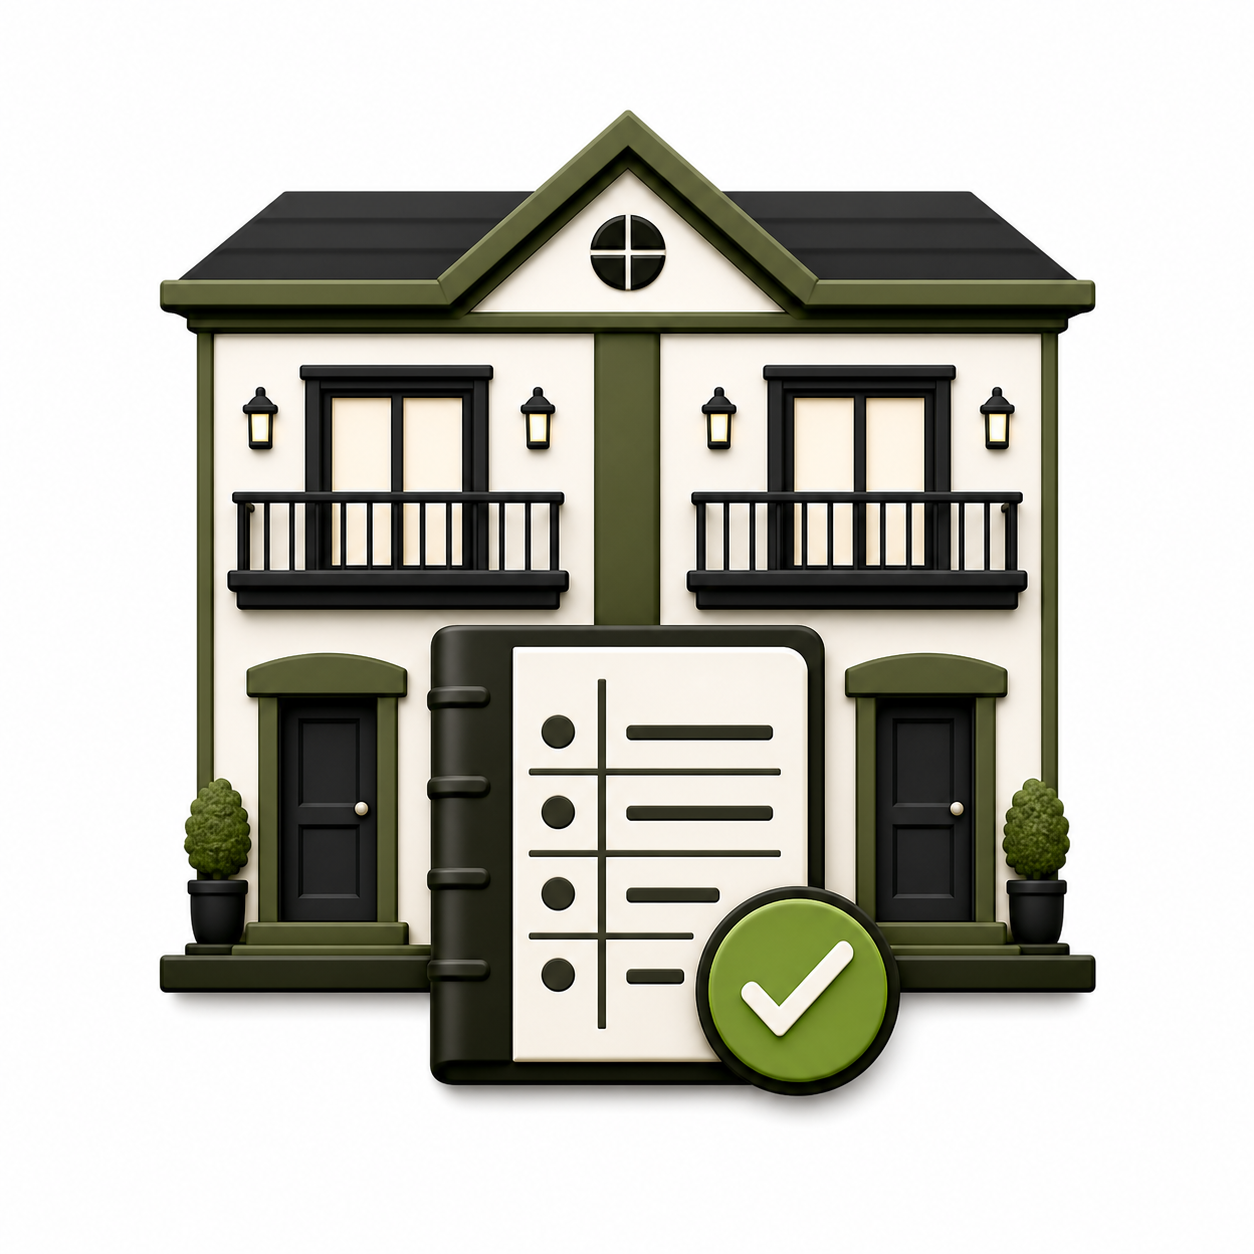
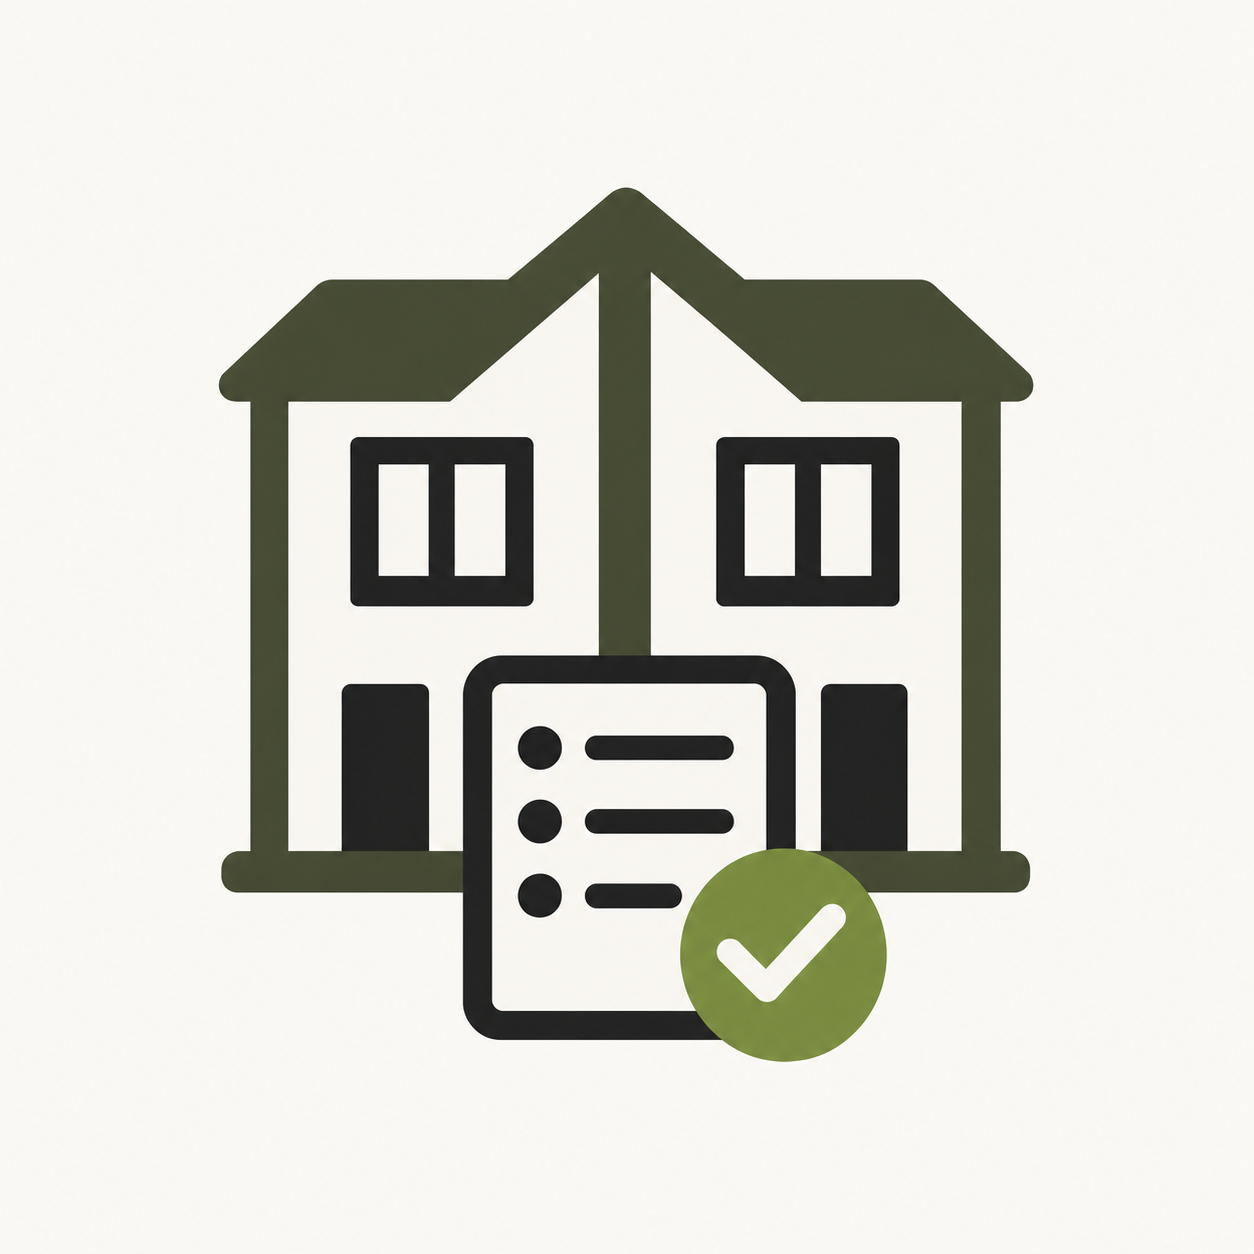
fix: perfect desktop alignment and asset controls

diff --git a/src/renderer/styles/app.css b/src/renderer/styles/app.css
@@ -2109,14 +2109,16 @@ textarea:focus-visible {
 
 .status-badge {
   display: inline-flex;
-  min-height: 24px;
+  height: 24px;
   align-items: center;
+  justify-content: center;
   padding: 0 var(--space-2);
   border-radius: var(--radius-sm);
   background: var(--color-surface-subtle);
   color: var(--color-ink);
   font-size: var(--text-xs);
   font-weight: 700;
+  line-height: 1;
   white-space: nowrap;
 }
 
@@ -2261,8 +2263,8 @@ textarea:focus-visible {
   gap: var(--space-2);
 }
 
-.payments-header > .page-actions {
-  align-items: flex-end;
+.payments-header > div.page-actions {
+  align-items: end;
 }
 
 .page-actions > .icon-button {
@@ -2273,6 +2275,26 @@ textarea:focus-visible {
 .page-actions > .primary-button,
 .page-actions > .secondary-button {
   min-height: var(--control-height);
+}
+
+.unit-setting-row > .unit-row-actions {
+  min-height: var(--control-height);
+  align-self: end;
+}
+
+.unit-setting-row > .unit-row-actions .icon-button {
+  width: var(--control-height);
+  height: var(--control-height);
+}
+
+.table-row-actions {
+  display: flex;
+  justify-content: flex-end;
+  gap: var(--space-2);
+}
+
+.danger-action {
+  color: var(--color-danger);
 }
 
 .payments-toolbar {

diff --git a/src/renderer/screens/FinancialPositionScreen.tsx b/src/renderer/screens/FinancialPositionScreen.tsx
@@ -1,4 +1,4 @@
-import { Landmark, PackageCheck, Pencil, Plus, Scale, X } from "lucide-react";
+import { Landmark, PackageCheck, Pencil, Plus, Scale, Trash2, X } from "lucide-react";
 import { useCallback, useEffect, useState, type FormEvent } from "react";
 
 import type { BusinessUnit } from "../../domain/types";
@@ -25,9 +25,10 @@ export function FinancialPositionScreen({units,taxProvisionPerUnit}:{units:Busin
   const [position,setPosition]=useState<FinancialPosition|null>(null);const [assets,setAssets]=useState<AssetRecord[]>([]);const [loans,setLoans]=useState<LoanRecord[]>([]);const [period,setPeriod]=useState<PeriodClose>({month:monthNow(),status:"open",reason:null});const [suppliers,setSuppliers]=useState<Supplier[]>([]);const [error,setError]=useState<string|null>(null);
   const load=useCallback(async()=>{setError(null);const [overview,supplierResult]=await Promise.all([window.stayBooks.invoke(IPC_CHANNELS.FINANCE_OVERVIEW,{month}),window.stayBooks.invoke(IPC_CHANNELS.SUPPLIERS_LIST,{})]);if(!overview.ok)return setError(overview.message);setPosition(overview.data.position);setAssets(overview.data.assets);setLoans(overview.data.loans);setPeriod(overview.data.period);if(supplierResult.ok)setSuppliers(supplierResult.data);},[month]);
   useEffect(()=>{void load();},[load]);
-  async function saveBalance(event:FormEvent<HTMLFormElement>){event.preventDefault();const form=new FormData(event.currentTarget);const result=await window.stayBooks.invoke(IPC_CHANNELS.BALANCE_SAVE,{month,category:String(form.get("category")) as IpcPayload<typeof IPC_CHANNELS.BALANCE_SAVE>["category"],amount:Number(form.get("amount")),unitId:String(form.get("unitId")||"")||null,notes:String(form.get("notes")||"")||null});if(!result.ok)return setError(result.message);setPosition(result.data);setPanel(null);}
+  async function saveBalance(event:FormEvent<HTMLFormElement>){event.preventDefault();const form=new FormData(event.currentTarget);const fundingMethod=String(form.get("fundingMethod")||"");const details=String(form.get("notes")||"");const notes=[fundingMethod,details].filter(Boolean).join(" · ")||null;const result=await window.stayBooks.invoke(IPC_CHANNELS.BALANCE_SAVE,{month,category:String(form.get("category")) as IpcPayload<typeof IPC_CHANNELS.BALANCE_SAVE>["category"],amount:Number(form.get("amount")),unitId:String(form.get("unitId")||"")||null,notes});if(!result.ok)return setError(result.message);setPosition(result.data);setPanel(null);}
   async function saveInventory(event:FormEvent<HTMLFormElement>){event.preventDefault();const form=new FormData(event.currentTarget);const result=await window.stayBooks.invoke(IPC_CHANNELS.INVENTORY_SAVE,{month,unitId:String(form.get("unitId")||"")||null,value:Number(form.get("value")),notes:String(form.get("notes")||"")||null});if(!result.ok)return setError(result.message);setPosition(result.data);setPanel(null);}
   async function saveAsset(input:AssetInput){const result=selectedAsset?await window.stayBooks.invoke(IPC_CHANNELS.ASSET_UPDATE,{id:selectedAsset.id,...input}):await window.stayBooks.invoke(IPC_CHANNELS.ASSET_CREATE,input);if(!result.ok){setError(result.message);throw new Error(result.message);}setSelectedAsset(null);setPanel(null);await load();}
+  async function archiveAsset(asset:AssetRecord){if(!window.confirm(`Remove ${asset.description} from the fixed asset register?`))return;const result=await window.stayBooks.invoke(IPC_CHANNELS.ASSET_ARCHIVE,{id:asset.id});if(!result.ok)return setError(result.message);await load();}
   async function saveLoan(input:LoanInput){const result=selectedLoan?await window.stayBooks.invoke(IPC_CHANNELS.LOAN_UPDATE,{id:selectedLoan.id,...input}):await window.stayBooks.invoke(IPC_CHANNELS.LOAN_CREATE,input);if(!result.ok){setError(result.message);throw new Error(result.message);}setSelectedLoan(null);setPanel(null);await load();}
   async function close(){const result=await window.stayBooks.invoke(IPC_CHANNELS.PERIOD_CLOSE,{month});if(!result.ok)return setError(result.message);setPeriod(result.data);}
   async function reopen(reason:string){const result=await window.stayBooks.invoke(IPC_CHANNELS.PERIOD_REOPEN,{month,reason});if(!result.ok)return setError(result.message);setPeriod(result.data);}
@@ -35,7 +36,7 @@ export function FinancialPositionScreen({units,taxProvisionPerUnit}:{units:Busin
   return <section className="financial-screen"><header className="payments-header"><div><h1>Financial Position</h1><p>Balances, obligations, loans, assets, equity, and month close.</p></div><div className="page-actions"><label className="month-control"><span>Month</span><input type="month" value={month} onChange={(event)=>setMonth(event.target.value)}/></label><button className="primary-button compact-button" onClick={()=>{setBalanceCategory("cash_on_hand");setPanel("balance");}}><Plus size={16}/>Add balance</button></div></header>
     <nav className="section-tabs" aria-label="Financial position views" data-tour="month-end">{(["position","assets","loans","month-end"] as const).map((item)=><button data-active={view===item} data-tour={item==="month-end"?"reopen-period":undefined} key={item} onClick={()=>setView(item)}>{item==="month-end"?"Month-end":item[0].toUpperCase()+item.slice(1)}</button>)}</nav>
     {error?<p className="form-alert">{error}</p>:null}
-    {view==="position"?<><div className="position-equation" data-tour="position-summary"><div><span>Total assets</span><strong>{formatUgx(position?.totalAssets??0)}</strong></div><Scale size={22}/><div><span>Liabilities + equity</span><strong>{formatUgx(position?.totalLiabilitiesAndEquity??0)}</strong></div><span className={`balance-state ${position?.balanced?"balanced":"unbalanced"}`}>{position?.balanced?"Balanced":`${formatUgx(Math.abs(position?.difference??0))} difference`}</span></div><div className="position-grid" data-tour="position-balances">{[["Cash and current accounts",position?.cashAndCurrentAccounts],["Long-term deposits",position?.longTermDeposits],["Receivables",position?.receivables],["Guest-supply inventory",position?.inventory],["Fixed assets",position?.fixedAssets],["Provider and other payables",position?.payables],["Loans",position?.loans],["Owner equity",position?.ownerEquity],["Monthly rental tax provision",calculateMonthlyRentalTaxProvision(activeUnits,ugx(taxProvisionPerUnit))]].map(([label,value])=><div key={String(label)}><span>{label}</span><strong>{formatUgx(Number(value??0))}</strong></div>)}</div><button className="secondary-button compact-button" onClick={()=>setPanel("inventory")}><PackageCheck size={16}/>Inventory value</button></>:view==="assets"?<><section className="investment-guide"><Landmark size={20}/><div><strong>Record property investment correctly</strong><span>Add land, buildings, or renovation work as an asset, then record how it was funded as Owner capital or a Loan.</span></div><button className="secondary-button compact-button" onClick={()=>{setBalanceCategory("owner_capital");setPanel("balance");}} type="button">Owner funding</button></section><div className="statement-panel"><header className="panel-toolbar"><h2>Fixed asset register</h2><button className="primary-button compact-button" onClick={()=>{setSelectedAsset(null);setPanel("asset");}}><Plus size={16}/>New asset</button></header><div className="table-scroll"><table className="statement-table"><thead><tr><th>Date</th><th>Description</th><th>Category</th><th>Scope</th><th>Amount</th><th><span className="visually-hidden">Actions</span></th></tr></thead><tbody>{assets.map((asset)=><tr key={asset.id}><td>{asset.purchaseDate}</td><td><strong>{asset.description}</strong></td><td>{asset.category}</td><td>{units.find(({id})=>id===asset.unitId)?.name??"Shared"}</td><td className="money-cell">{formatUgx(asset.purchaseAmount)}</td><td><button aria-label={`Edit ${asset.description}`} className="icon-button" onClick={()=>{setSelectedAsset(asset);setPanel("asset");}}><Pencil size={15}/></button></td></tr>)}</tbody></table></div></div></>:view==="loans"?<div className="statement-panel"><header className="panel-toolbar"><h2>Loan register</h2><button className="primary-button compact-button" onClick={()=>{setSelectedLoan(null);setPanel("loan");}}><Plus size={16}/>New loan</button></header><div className="table-scroll"><table className="statement-table"><thead><tr><th>Lender</th><th>Type</th><th>Repayment</th><th>Principal</th><th>Outstanding</th><th><span className="visually-hidden">Actions</span></th></tr></thead><tbody>{loans.map((loan)=><tr key={loan.id}><td><strong>{loan.lender}</strong><span>{loan.interestRateBasisPoints/100}% annual interest</span></td><td>{loan.kind.replace("_"," ")}</td><td>{loan.repaymentFrequency}{loan.installmentAmount?` · ${formatUgx(loan.installmentAmount)}`:""}{loan.termMonths?` · ${loan.termMonths} months`:""}</td><td className="money-cell">{formatUgx(loan.principal)}</td><td className="money-cell">{formatUgx(loan.outstandingBalance)}</td><td><button aria-label={`Edit loan from ${loan.lender}`} className="icon-button" onClick={()=>{setSelectedLoan(loan);setPanel("loan");}}><Pencil size={15}/></button></td></tr>)}</tbody></table></div></div>:<MonthEndQuestionnaire month={month} status={period.status} balanced={position?.balanced??false} onClose={()=>void close()} onReopen={(reason)=>void reopen(reason)}/>}
-    {panel?<aside className="expense-side-panel"><header><h2>{panel==="balance"?"Record balance":panel==="inventory"?"Inventory value":panel==="asset"?(selectedAsset?"Edit asset":"New asset"):(selectedLoan?"Edit loan":"New loan")}</h2><button className="icon-button" aria-label="Close panel" onClick={()=>setPanel(null)}><X size={17}/></button></header>{panel==="asset"?<AssetEditor asset={selectedAsset} units={units} suppliers={suppliers} onSave={saveAsset} onCancel={()=>setPanel(null)}/>:panel==="loan"?<LoanEditor loan={selectedLoan} onSave={saveLoan} onCancel={()=>setPanel(null)}/>:panel==="inventory"?<form className="expense-editor" onSubmit={saveInventory}><label className="field-group"><span>Unit or shared</span><select name="unitId"><option value="">Shared</option>{units.map((unit)=><option key={unit.id} value={unit.id}>{unit.name}</option>)}</select></label><label className="field-group"><span>Guest-supply value</span><input name="value" type="number" min="0" required/></label><label className="field-group"><span>Notes</span><textarea name="notes"/></label><button className="primary-button">Save inventory value</button></form>:<form className="expense-editor" onSubmit={saveBalance}><label className="field-group"><span>Balance type</span><select name="category" onChange={(event)=>setBalanceCategory(event.target.value as typeof balanceCategory)} value={balanceCategory}>{categories.map(([value,label])=><option key={value} value={value}>{label}</option>)}</select></label><label className="field-group"><span>Unit when applicable</span><select name="unitId"><option value="">Consolidated/shared</option>{units.map((unit)=><option key={unit.id} value={unit.id}>{unit.name}</option>)}</select></label><label className="field-group"><span>Amount</span><input name="amount" type="number" min="0" required/></label><label className="field-group"><span>Notes</span><textarea name="notes"/></label><button className="primary-button">Save balance</button></form>}</aside>:null}
+    {view==="position"?<><div className="position-equation" data-tour="position-summary"><div><span>Total assets</span><strong>{formatUgx(position?.totalAssets??0)}</strong></div><Scale size={22}/><div><span>Liabilities + equity</span><strong>{formatUgx(position?.totalLiabilitiesAndEquity??0)}</strong></div><span className={`balance-state ${position?.balanced?"balanced":"unbalanced"}`}>{position?.balanced?"Balanced":`${formatUgx(Math.abs(position?.difference??0))} difference`}</span></div><div className="position-grid" data-tour="position-balances">{[["Cash and current accounts",position?.cashAndCurrentAccounts],["Long-term deposits",position?.longTermDeposits],["Receivables",position?.receivables],["Guest-supply inventory",position?.inventory],["Fixed assets",position?.fixedAssets],["Provider and other payables",position?.payables],["Loans",position?.loans],["Owner equity",position?.ownerEquity],["Monthly rental tax provision",calculateMonthlyRentalTaxProvision(activeUnits,ugx(taxProvisionPerUnit))]].map(([label,value])=><div key={String(label)}><span>{label}</span><strong>{formatUgx(Number(value??0))}</strong></div>)}</div><button className="secondary-button compact-button" onClick={()=>setPanel("inventory")}><PackageCheck size={16}/>Inventory value</button></>:view==="assets"?<><section className="investment-guide"><Landmark size={20}/><div><strong>Record property investment correctly</strong><span>Add land, buildings, or renovation work as an asset, then record how it was funded as Owner capital or a Loan.</span></div><button className="secondary-button compact-button" onClick={()=>{setBalanceCategory("owner_capital");setPanel("balance");}} type="button">Owner funding</button></section><div className="statement-panel"><header className="panel-toolbar"><h2>Fixed asset register</h2><button className="primary-button compact-button" onClick={()=>{setSelectedAsset(null);setPanel("asset");}}><Plus size={16}/>New asset</button></header><div className="table-scroll"><table className="statement-table"><thead><tr><th>Date</th><th>Description</th><th>Category</th><th>Scope</th><th>Amount</th><th><span className="visually-hidden">Actions</span></th></tr></thead><tbody>{assets.map((asset)=><tr key={asset.id}><td>{asset.purchaseDate}</td><td><strong>{asset.description}</strong></td><td>{asset.category}</td><td>{units.find(({id})=>id===asset.unitId)?.name??"Shared"}</td><td className="money-cell">{formatUgx(asset.purchaseAmount)}</td><td><div className="table-row-actions"><button aria-label={`Edit ${asset.description}`} className="icon-button" onClick={()=>{setSelectedAsset(asset);setPanel("asset");}}><Pencil size={15}/></button><button aria-label={`Delete ${asset.description}`} className="icon-button danger-action" onClick={()=>void archiveAsset(asset)}><Trash2 size={15}/></button></div></td></tr>)}</tbody></table></div></div></>:view==="loans"?<div className="statement-panel"><header className="panel-toolbar"><h2>Loan register</h2><button className="primary-button compact-button" onClick={()=>{setSelectedLoan(null);setPanel("loan");}}><Plus size={16}/>New loan</button></header><div className="table-scroll"><table className="statement-table"><thead><tr><th>Lender</th><th>Type</th><th>Repayment</th><th>Principal</th><th>Outstanding</th><th><span className="visually-hidden">Actions</span></th></tr></thead><tbody>{loans.map((loan)=><tr key={loan.id}><td><strong>{loan.lender}</strong><span>{loan.interestRateBasisPoints/100}% annual interest</span></td><td>{loan.kind.replace("_"," ")}</td><td>{loan.repaymentFrequency}{loan.installmentAmount?` · ${formatUgx(loan.installmentAmount)}`:""}{loan.termMonths?` · ${loan.termMonths} months`:""}</td><td className="money-cell">{formatUgx(loan.principal)}</td><td className="money-cell">{formatUgx(loan.outstandingBalance)}</td><td><button aria-label={`Edit loan from ${loan.lender}`} className="icon-button" onClick={()=>{setSelectedLoan(loan);setPanel("loan");}}><Pencil size={15}/></button></td></tr>)}</tbody></table></div></div>:<MonthEndQuestionnaire month={month} status={period.status} balanced={position?.balanced??false} onClose={()=>void close()} onReopen={(reason)=>void reopen(reason)}/>}
+    {panel?<aside className="expense-side-panel"><header><h2>{panel==="balance"?(balanceCategory==="owner_capital"?"Record owner funding":"Record balance"):panel==="inventory"?"Inventory value":panel==="asset"?(selectedAsset?"Edit asset":"New asset"):(selectedLoan?"Edit loan":"New loan")}</h2><button className="icon-button" aria-label="Close panel" onClick={()=>setPanel(null)}><X size={17}/></button></header>{panel==="asset"?<AssetEditor asset={selectedAsset} units={units} suppliers={suppliers} onSave={saveAsset} onCancel={()=>setPanel(null)}/>:panel==="loan"?<LoanEditor loan={selectedLoan} onSave={saveLoan} onCancel={()=>setPanel(null)}/>:panel==="inventory"?<form className="expense-editor" onSubmit={saveInventory}><label className="field-group"><span>Unit or shared</span><select name="unitId"><option value="">Shared</option>{units.map((unit)=><option key={unit.id} value={unit.id}>{unit.name}</option>)}</select></label><label className="field-group"><span>Guest-supply value</span><input name="value" type="number" min="0" required/></label><label className="field-group"><span>Notes</span><textarea name="notes"/></label><button className="primary-button">Save inventory value</button></form>:<form className="expense-editor" onSubmit={saveBalance}><label className="field-group"><span>Balance type</span><select name="category" onChange={(event)=>setBalanceCategory(event.target.value as typeof balanceCategory)} value={balanceCategory}>{categories.map(([value,label])=><option key={value} value={value}>{label}</option>)}</select></label><div className="form-grid-two"><label className="field-group"><span>Effective month</span><input type="month" value={month} readOnly/></label><label className="field-group"><span>Unit or shared</span><select name="unitId"><option value="">Consolidated/shared</option>{units.map((unit)=><option key={unit.id} value={unit.id}>{unit.name}</option>)}</select></label></div><label className="field-group"><span>{balanceCategory==="owner_capital"?"Owner contribution amount":"Amount"}</span><input name="amount" type="number" min="0" required/></label>{balanceCategory==="owner_capital"?<label className="field-group"><span>Funding method</span><select name="fundingMethod"><option>Cash contribution</option><option>Bank transfer</option><option>Asset paid personally by owner</option><option>Other owner contribution</option></select></label>:null}<label className="field-group"><span>Reference and details</span><textarea name="notes" placeholder={balanceCategory==="owner_capital"?"Describe the asset or contribution and any reference.":undefined}/></label><button className="primary-button">Save {balanceCategory==="owner_capital"?"owner funding":"balance"}</button></form>}</aside>:null}
   </section>;
 }

diff --git a/src/shared/ipc.ts b/src/shared/ipc.ts
@@ -55,7 +55,7 @@ export const IPC_CHANNELS = {
   SUPPLIERS_LIST: "suppliers:list", SUPPLIER_CREATE: "suppliers:create", SUPPLIER_PAYMENT: "suppliers:payment",
   RECURRING_EXPENSES_LIST: "recurring-expenses:list", RECURRING_EXPENSE_CREATE: "recurring-expenses:create",
   FINANCE_OVERVIEW: "finance:overview", BALANCE_SAVE: "finance:balance-save", INVENTORY_SAVE: "finance:inventory-save",
-  ASSET_CREATE: "finance:asset-create", ASSET_UPDATE: "finance:asset-update",
+  ASSET_CREATE: "finance:asset-create", ASSET_UPDATE: "finance:asset-update", ASSET_ARCHIVE: "finance:asset-archive",
   LOAN_CREATE: "finance:loan-create", LOAN_UPDATE: "finance:loan-update",
   PERIOD_CLOSE: "finance:period-close", PERIOD_REOPEN: "finance:period-reopen",
   REPORT_MONTHLY: "reports:monthly",
@@ -561,6 +561,7 @@ const financeRequests=[
  z.object({channel:z.literal(IPC_CHANNELS.INVENTORY_SAVE),payload:z.object({month:monthSchema,unitId:idSchema.nullable().optional(),value:wholeUgxSchema.nonnegative(),notes:z.string().max(2000).nullable().optional()}).strict()}).strict(),
  z.object({channel:z.literal(IPC_CHANNELS.ASSET_CREATE),payload:assetInputSchema}).strict(),
  z.object({channel:z.literal(IPC_CHANNELS.ASSET_UPDATE),payload:assetInputSchema.extend({id:idSchema}).strict()}).strict(),
+ z.object({channel:z.literal(IPC_CHANNELS.ASSET_ARCHIVE),payload:z.object({id:idSchema}).strict()}).strict(),
  z.object({channel:z.literal(IPC_CHANNELS.LOAN_CREATE),payload:loanInputSchema}).strict(),
  z.object({channel:z.literal(IPC_CHANNELS.LOAN_UPDATE),payload:loanInputSchema.extend({id:idSchema}).strict()}).strict(),
  z.object({channel:z.literal(IPC_CHANNELS.PERIOD_CLOSE),payload:z.object({month:monthSchema}).strict()}).strict(),
@@ -896,7 +897,7 @@ const responseSchemas = {
   [IPC_CHANNELS.RECURRING_EXPENSES_LIST]: responseSchema(z.array(recurringExpenseSchema)), [IPC_CHANNELS.RECURRING_EXPENSE_CREATE]: responseSchema(recurringExpenseSchema),
   [IPC_CHANNELS.FINANCE_OVERVIEW]: responseSchema(z.object({position:positionSchema,assets:z.array(assetSchema),loans:z.array(loanSchema),period:periodSchema}).strict()),
   [IPC_CHANNELS.BALANCE_SAVE]:responseSchema(positionSchema),[IPC_CHANNELS.INVENTORY_SAVE]:responseSchema(positionSchema),
-  [IPC_CHANNELS.ASSET_CREATE]:responseSchema(assetSchema),[IPC_CHANNELS.ASSET_UPDATE]:responseSchema(assetSchema),
+  [IPC_CHANNELS.ASSET_CREATE]:responseSchema(assetSchema),[IPC_CHANNELS.ASSET_UPDATE]:responseSchema(assetSchema),[IPC_CHANNELS.ASSET_ARCHIVE]:responseSchema(z.object({archived:z.literal(true)}).strict()),
   [IPC_CHANNELS.LOAN_CREATE]:responseSchema(loanSchema),[IPC_CHANNELS.LOAN_UPDATE]:responseSchema(loanSchema),
   [IPC_CHANNELS.PERIOD_CLOSE]:responseSchema(periodSchema),[IPC_CHANNELS.PERIOD_REOPEN]:responseSchema(periodSchema),
   [IPC_CHANNELS.REPORT_MONTHLY]:responseSchema(reportSchema),
@@ -977,7 +978,7 @@ interface IpcDataByChannel {
   [IPC_CHANNELS.RECURRING_EXPENSES_LIST]: RecurringExpenseTemplate[]; [IPC_CHANNELS.RECURRING_EXPENSE_CREATE]: RecurringExpenseTemplate;
   [IPC_CHANNELS.FINANCE_OVERVIEW]: {position:FinancialPosition;assets:AssetRecord[];loans:LoanRecord[];period:PeriodClose};
   [IPC_CHANNELS.BALANCE_SAVE]:FinancialPosition;[IPC_CHANNELS.INVENTORY_SAVE]:FinancialPosition;
-  [IPC_CHANNELS.ASSET_CREATE]:AssetRecord;[IPC_CHANNELS.ASSET_UPDATE]:AssetRecord;
+  [IPC_CHANNELS.ASSET_CREATE]:AssetRecord;[IPC_CHANNELS.ASSET_UPDATE]:AssetRecord;[IPC_CHANNELS.ASSET_ARCHIVE]:{archived:true};
   [IPC_CHANNELS.LOAN_CREATE]:LoanRecord;[IPC_CHANNELS.LOAN_UPDATE]:LoanRecord;
   [IPC_CHANNELS.PERIOD_CLOSE]:PeriodClose;[IPC_CHANNELS.PERIOD_REOPEN]:PeriodClose;
   [IPC_CHANNELS.REPORT_MONTHLY]:FinancialReport;

diff --git a/src/main/ipc/register-handlers.ts b/src/main/ipc/register-handlers.ts
@@ -130,7 +130,7 @@ const defaultHandlers: IpcHandlers = {
   [IPC_CHANNELS.SUPPLIERS_LIST]:()=>[], [IPC_CHANNELS.SUPPLIER_CREATE]:()=>{throw new Error("Business session is unavailable");}, [IPC_CHANNELS.SUPPLIER_PAYMENT]:()=>{throw new Error("Business session is unavailable");},
   [IPC_CHANNELS.RECURRING_EXPENSES_LIST]:()=>[], [IPC_CHANNELS.RECURRING_EXPENSE_CREATE]:()=>{throw new Error("Business session is unavailable");},
   [IPC_CHANNELS.FINANCE_OVERVIEW]:()=>{throw new Error("Business session is unavailable");},[IPC_CHANNELS.BALANCE_SAVE]:()=>{throw new Error("Business session is unavailable");},[IPC_CHANNELS.INVENTORY_SAVE]:()=>{throw new Error("Business session is unavailable");},
-  [IPC_CHANNELS.ASSET_CREATE]:()=>{throw new Error("Business session is unavailable");},[IPC_CHANNELS.ASSET_UPDATE]:()=>{throw new Error("Business session is unavailable");},
+  [IPC_CHANNELS.ASSET_CREATE]:()=>{throw new Error("Business session is unavailable");},[IPC_CHANNELS.ASSET_UPDATE]:()=>{throw new Error("Business session is unavailable");},[IPC_CHANNELS.ASSET_ARCHIVE]:()=>{throw new Error("Business session is unavailable");},
   [IPC_CHANNELS.LOAN_CREATE]:()=>{throw new Error("Business session is unavailable");},[IPC_CHANNELS.LOAN_UPDATE]:()=>{throw new Error("Business session is unavailable");},[IPC_CHANNELS.PERIOD_CLOSE]:()=>{throw new Error("Business session is unavailable");},[IPC_CHANNELS.PERIOD_REOPEN]:()=>{throw new Error("Business session is unavailable");},
   [IPC_CHANNELS.REPORT_MONTHLY]:()=>{throw new Error("Business session is unavailable");},
   [IPC_CHANNELS.TODAY_OVERVIEW]:()=>{throw new Error("Business session is unavailable");},
@@ -175,7 +175,7 @@ const registeredChannels = [
   IPC_CHANNELS.RECEIPT_PRINT,
   IPC_CHANNELS.COMPENSATION_MONTHLY,
   IPC_CHANNELS.EXPENSES_LIST,IPC_CHANNELS.EXPENSE_CREATE,IPC_CHANNELS.SUPPLIERS_LIST,IPC_CHANNELS.SUPPLIER_CREATE,IPC_CHANNELS.SUPPLIER_PAYMENT,IPC_CHANNELS.RECURRING_EXPENSES_LIST,IPC_CHANNELS.RECURRING_EXPENSE_CREATE,
-  IPC_CHANNELS.FINANCE_OVERVIEW,IPC_CHANNELS.BALANCE_SAVE,IPC_CHANNELS.INVENTORY_SAVE,IPC_CHANNELS.ASSET_CREATE,IPC_CHANNELS.ASSET_UPDATE,IPC_CHANNELS.LOAN_CREATE,IPC_CHANNELS.LOAN_UPDATE,IPC_CHANNELS.PERIOD_CLOSE,IPC_CHANNELS.PERIOD_REOPEN,
+  IPC_CHANNELS.FINANCE_OVERVIEW,IPC_CHANNELS.BALANCE_SAVE,IPC_CHANNELS.INVENTORY_SAVE,IPC_CHANNELS.ASSET_CREATE,IPC_CHANNELS.ASSET_UPDATE,IPC_CHANNELS.ASSET_ARCHIVE,IPC_CHANNELS.LOAN_CREATE,IPC_CHANNELS.LOAN_UPDATE,IPC_CHANNELS.PERIOD_CLOSE,IPC_CHANNELS.PERIOD_REOPEN,
   IPC_CHANNELS.REPORT_MONTHLY,
   IPC_CHANNELS.TODAY_OVERVIEW,
   IPC_CHANNELS.BACKUP_CREATE,IPC_CHANNELS.BACKUP_RESTORE,IPC_CHANNELS.EXPORT_EXCEL,
@@ -247,7 +247,7 @@ export function createBusinessIpcHandlers(
     [IPC_CHANNELS.SUPPLIERS_LIST]:()=>session.listSuppliers(), [IPC_CHANNELS.SUPPLIER_CREATE]:(payload)=>session.createSupplier(payload), [IPC_CHANNELS.SUPPLIER_PAYMENT]:(payload)=>session.recordSupplierPayment(payload),
     [IPC_CHANNELS.RECURRING_EXPENSES_LIST]:({month})=>session.listRecurringExpenses(month), [IPC_CHANNELS.RECURRING_EXPENSE_CREATE]:(payload)=>session.createRecurringExpense(payload),
     [IPC_CHANNELS.FINANCE_OVERVIEW]:({month})=>session.getFinanceOverview(month),[IPC_CHANNELS.BALANCE_SAVE]:(payload)=>session.recordBalance(payload),[IPC_CHANNELS.INVENTORY_SAVE]:(payload)=>session.recordInventory(payload),
-    [IPC_CHANNELS.ASSET_CREATE]:(payload)=>session.createAsset(payload),[IPC_CHANNELS.ASSET_UPDATE]:({id,...payload})=>session.updateAsset(id,payload),
+    [IPC_CHANNELS.ASSET_CREATE]:(payload)=>session.createAsset(payload),[IPC_CHANNELS.ASSET_UPDATE]:({id,...payload})=>session.updateAsset(id,payload),[IPC_CHANNELS.ASSET_ARCHIVE]:({id})=>{session.archiveAsset(id);return{archived:true as const};},
     [IPC_CHANNELS.LOAN_CREATE]:(payload)=>session.createLoan(payload),[IPC_CHANNELS.LOAN_UPDATE]:({id,...payload})=>session.updateLoan(id,payload),[IPC_CHANNELS.PERIOD_CLOSE]:({month})=>session.closeMonth(month),[IPC_CHANNELS.PERIOD_REOPEN]:({month,reason})=>session.reopenMonth(month,reason),
     [IPC_CHANNELS.REPORT_MONTHLY]:({month})=>session.getMonthlyFinancialReport(month),
     [IPC_CHANNELS.TODAY_OVERVIEW]:({date})=>session.getTodayOverview(date),

diff --git a/src/main/business-session.ts b/src/main/business-session.ts
@@ -160,6 +160,7 @@ export interface BusinessSession {
   recordInventory(input:Parameters<FinanceRepository["recordInventory"]>[0]):FinancialPosition;
   createAsset(input:Parameters<FinanceRepository["createAsset"]>[0]):AssetRecord;
   updateAsset(id:string,input:Parameters<FinanceRepository["updateAsset"]>[1]):AssetRecord;
+  archiveAsset(id:string):void;
   createLoan(input:Parameters<FinanceRepository["createLoan"]>[0]):LoanRecord;
   updateLoan(id:string,input:Parameters<FinanceRepository["updateLoan"]>[1]):LoanRecord;
   closeMonth(month:string):PeriodClose;
@@ -529,6 +530,7 @@ export function createBusinessSession(options: BusinessSessionOptions): Business
     recordInventory(input) { requireCapability("admin.all"); return finance().recordInventory(input); },
     createAsset(input) { requireCapability("admin.all"); return finance().createAsset(input); },
     updateAsset(id,input) { requireCapability("admin.all"); return finance().updateAsset(id,input); },
+    archiveAsset(id) { requireCapability("admin.all"); return finance().archiveAsset(id); },
     createLoan(input) { requireCapability("admin.all"); return finance().createLoan(input); },
     updateLoan(id,input) { requireCapability("admin.all"); return finance().updateLoan(id,input); },
     closeMonth(month) { requireCapability("admin.all"); return finance().closeMonth(month); },

diff --git a/src/renderer/components/KpiStrip.tsx b/src/renderer/components/KpiStrip.tsx
@@ -1,2 +1,2 @@
-const formatUgx=(value:number)=>`UGX ${new Intl.NumberFormat("en-UG",{notation:value>=1_000_000?"compact":"standard",maximumFractionDigits:1}).format(value)}`;
+const formatUgx=(value:number)=>{const full=new Intl.NumberFormat("en-UG").format(value);return `UGX ${full.length>16?new Intl.NumberFormat("en-UG",{notation:"compact",maximumFractionDigits:1}).format(value):full}`};
 export function KpiStrip({occupancy,collected,outstanding,netPosition}:{occupancy:number;collected:number;outstanding:number;netPosition:number}){return <section className="kpi-strip" aria-label="Current month summary"><div><span>Occupancy</span><strong>{occupancy}%</strong></div><div><span>Collected</span><strong>{formatUgx(collected)}</strong></div><div><span>Outstanding</span><strong>{formatUgx(outstanding)}</strong></div><div><span>Net position</span><strong className={netPosition<0?"negative":undefined}>{formatUgx(netPosition)}</strong></div></section>}

diff --git a/tests/main/finance-repository.test.ts b/tests/main/finance-repository.test.ts
@@ -74,6 +74,8 @@ describe("financial position and month close", () => {
       purchaseDate: "2026-07-02",
       purchaseAmount: 750_000,
     })).toMatchObject({ description: "Guest room bed", purchaseAmount: 750_000 });
+    finance.archiveAsset(asset.id);
+    expect(finance.listAssets()).toEqual([]);
     expect(finance.updateLoan(loan.id, {
       lender: "Aurevia Enterprise",
       kind: "non_bank",

diff --git a/tests/renderer/today.test.tsx b/tests/renderer/today.test.tsx
@@ -1,3 +1,3 @@
 // @vitest-environment jsdom
 import {cleanup,render,screen,waitFor} from "@testing-library/react";import userEvent from "@testing-library/user-event";import{afterEach,describe,expect,it,vi}from"vitest";import{TodayScreen}from"../../src/renderer/screens/TodayScreen";
-afterEach(cleanup);describe("daily command center",()=>{it("reconciles visible totals and routes every warning",async()=>{const invoke=vi.fn().mockResolvedValue({ok:true,data:{date:"2026-07-14",month:"2026-07",occupancyPercent:72,collected:8_400_000,outstanding:900_000,netPosition:1_700_000,expenses:2_400_000,staffDue:3_100_000,taxProvision:1_200_000,performance:[{month:"2026-02",collected:2_000_000,expenses:1_000_000,occupancyPercent:30},{month:"2026-03",collected:3_000_000,expenses:1_200_000,occupancyPercent:40},{month:"2026-04",collected:4_000_000,expenses:1_400_000,occupancyPercent:50},{month:"2026-05",collected:5_000_000,expenses:1_600_000,occupancyPercent:60},{month:"2026-06",collected:6_000_000,expenses:1_800_000,occupancyPercent:70},{month:"2026-07",collected:8_400_000,expenses:2_400_000,occupancyPercent:72}],agenda:[{id:"b1",type:"arrival",customerName:"Sarah N.",unitName:"Unit 1",time:"14:00",balance:0},{id:"b2",type:"departure",customerName:"David K.",unitName:"Unit 2",time:"11:00",balance:300_000}],units:[{id:"u1",name:"Unit 1",status:"arriving",guestName:"Sarah N."},{id:"u2",name:"Unit 2",status:"checkoutDue",guestName:"David K."}],warnings:[{id:"w1",label:"Balance due · David K.",detail:"Unit 2 · UGX 300,000",target:"payments"},{id:"w2",label:"Staff allocation unpaid",detail:"UGX 3,100,000",target:"staff"}]}});Object.defineProperty(window,"stayBooks",{configurable:true,value:{invoke}});const navigate=vi.fn();render(<TodayScreen date="2026-07-14" onNavigate={navigate}/>);await waitFor(()=>expect(screen.getAllByText("72%").length).toBeGreaterThan(0));for(const value of ["UGX 8.4M","UGX 900,000","UGX 1.7M","UGX 3,100,000","UGX 1,200,000","UGX 2,400,000"])expect(screen.getAllByText(value).length).toBeGreaterThan(0);expect(screen.getByRole("img",{name:/Collections, expenses, and occupancy/})).toBeTruthy();await userEvent.click(screen.getByRole("button",{name:/Balance due · David K/}));expect(navigate).toHaveBeenCalledWith("payments");});});
+afterEach(cleanup);describe("daily command center",()=>{it("reconciles visible totals and routes every warning",async()=>{const invoke=vi.fn().mockResolvedValue({ok:true,data:{date:"2026-07-14",month:"2026-07",occupancyPercent:72,collected:8_400_000,outstanding:900_000,netPosition:1_700_000,expenses:2_400_000,staffDue:3_100_000,taxProvision:1_200_000,performance:[{month:"2026-02",collected:2_000_000,expenses:1_000_000,occupancyPercent:30},{month:"2026-03",collected:3_000_000,expenses:1_200_000,occupancyPercent:40},{month:"2026-04",collected:4_000_000,expenses:1_400_000,occupancyPercent:50},{month:"2026-05",collected:5_000_000,expenses:1_600_000,occupancyPercent:60},{month:"2026-06",collected:6_000_000,expenses:1_800_000,occupancyPercent:70},{month:"2026-07",collected:8_400_000,expenses:2_400_000,occupancyPercent:72}],agenda:[{id:"b1",type:"arrival",customerName:"Sarah N.",unitName:"Unit 1",time:"14:00",balance:0},{id:"b2",type:"departure",customerName:"David K.",unitName:"Unit 2",time:"11:00",balance:300_000}],units:[{id:"u1",name:"Unit 1",status:"arriving",guestName:"Sarah N."},{id:"u2",name:"Unit 2",status:"checkoutDue",guestName:"David K."}],warnings:[{id:"w1",label:"Balance due · David K.",detail:"Unit 2 · UGX 300,000",target:"payments"},{id:"w2",label:"Staff allocation unpaid",detail:"UGX 3,100,000",target:"staff"}]}});Object.defineProperty(window,"stayBooks",{configurable:true,value:{invoke}});const navigate=vi.fn();render(<TodayScreen date="2026-07-14" onNavigate={navigate}/>);await waitFor(()=>expect(screen.getAllByText("72%").length).toBeGreaterThan(0));for(const value of ["UGX 8,400,000","UGX 900,000","UGX 1,700,000","UGX 3,100,000","UGX 1,200,000","UGX 2,400,000"])expect(screen.getAllByText(value).length).toBeGreaterThan(0);expect(screen.getByRole("img",{name:/Collections, expenses, and occupancy/})).toBeTruthy();await userEvent.click(screen.getByRole("button",{name:/Balance due · David K/}));expect(navigate).toHaveBeenCalledWith("payments");});});

diff --git a/src/main/db/repositories/finance-repository.ts b/src/main/db/repositories/finance-repository.ts
@@ -179,6 +179,7 @@ export function createFinanceRepository(database: Database.Database, businessId:
     recordInventory(input:{month:string;unitId?:string|null;value:number;notes?:string|null}) { requireMonth(input.month); assertOpen(input.month); requireOwned("units",input.unitId); const value=wholeUgx(input.value); const row=database.prepare<[string,string,string|null],{id:string}>("SELECT id FROM inventory_snapshots WHERE business_id=? AND month=? AND unit_id IS ?").get(businessId,input.month,input.unitId??null); if(row)database.prepare("UPDATE inventory_snapshots SET value=?,notes=? WHERE id=?").run(value,input.notes?.trim()||null,row.id);else database.prepare("INSERT INTO inventory_snapshots (business_id,month,unit_id,value,notes) VALUES (?,?,?,?,?)").run(businessId,input.month,input.unitId??null,value,input.notes?.trim()||null); return position(input.month); },
     createAsset(input:AssetInput):AssetRecord { if(!assetCategories.has(input.category))throw new Error("Choose a valid asset category.");if(!input.description.trim())throw new Error("Asset description is required.");if(!calendarDate(input.purchaseDate))throw new Error("Choose a valid purchase date.");assertOpen(input.purchaseDate.slice(0,7));requireOwned("units",input.unitId);requireOwned("suppliers",input.supplierId);const amount=wholeUgx(input.purchaseAmount);if(input.usefulLifeMonths!=null&&(!Number.isSafeInteger(input.usefulLifeMonths)||input.usefulLifeMonths<1))throw new Error("Useful life must be whole months.");const row=database.prepare<any,{id:string}>("INSERT INTO assets (business_id,unit_id,supplier_id,category,description,purchase_date,purchase_amount,payment_method,useful_life_months) VALUES (@businessId,@unitId,@supplierId,@category,@description,@purchaseDate,@amount,@paymentMethod,@usefulLifeMonths) RETURNING id").get({businessId,unitId:input.unitId??null,supplierId:input.supplierId??null,category:input.category,description:input.description.trim(),purchaseDate:input.purchaseDate,amount,paymentMethod:input.paymentMethod?.trim()||null,usefulLifeMonths:input.usefulLifeMonths??null})!;return assets().find(({id})=>id===row.id)!; },
     updateAsset(id:string,input:AssetInput):AssetRecord { const before=assets().find((asset)=>asset.id===id);if(!before)throw new Error("Asset not found.");if(!assetCategories.has(input.category)||!input.description.trim()||!calendarDate(input.purchaseDate))throw new Error("Check the asset details.");assertOpen(before.purchaseDate.slice(0,7));assertOpen(input.purchaseDate.slice(0,7));requireOwned("units",input.unitId);requireOwned("suppliers",input.supplierId);const amount=wholeUgx(input.purchaseAmount);if(input.usefulLifeMonths!=null&&(!Number.isSafeInteger(input.usefulLifeMonths)||input.usefulLifeMonths<1))throw new Error("Useful life must be whole months.");database.prepare("UPDATE assets SET unit_id=@unitId,supplier_id=@supplierId,category=@category,description=@description,purchase_date=@purchaseDate,purchase_amount=@amount,payment_method=@paymentMethod,useful_life_months=@usefulLifeMonths WHERE id=@id AND business_id=@businessId AND archived_at IS NULL").run({id,businessId,unitId:input.unitId??null,supplierId:input.supplierId??null,category:input.category,description:input.description.trim(),purchaseDate:input.purchaseDate,amount,paymentMethod:input.paymentMethod?.trim()||null,usefulLifeMonths:input.usefulLifeMonths??null});const after=assets().find((asset)=>asset.id===id)!;audit.append({entityType:"asset",entityId:id,action:"update",before,after});return after; },
+    archiveAsset(id:string):void { const before=assets().find((asset)=>asset.id===id);if(!before)throw new Error("Asset not found.");assertOpen(before.purchaseDate.slice(0,7));database.prepare("UPDATE assets SET archived_at=strftime('%Y-%m-%dT%H:%M:%fZ','now') WHERE id=? AND business_id=? AND archived_at IS NULL").run(id,businessId);audit.append({entityType:"asset",entityId:id,action:"update",before,after:{archived:true}}); },
     listAssets: assets,
     createLoan(input:LoanInput):LoanRecord { if(!input.lender.trim())throw new Error("Lender is required.");if(!loanKinds.has(input.kind))throw new Error("Choose a valid loan type.");if(!calendarDate(input.startDate)||input.dueDate&&!calendarDate(input.dueDate))throw new Error("Choose valid loan dates.");assertOpen(input.startDate.slice(0,7));const principal=wholeUgx(input.principal),outstanding=wholeUgx(input.outstandingBalance),rate=input.interestRateBasisPoints??0,frequency=input.repaymentFrequency??"monthly",installment=input.installmentAmount==null?null:wholeUgx(input.installmentAmount),term=input.termMonths??null;if(!Number.isSafeInteger(rate)||rate<0||!repaymentFrequencies.has(frequency))throw new Error("Use a valid repayment plan.");if(term!=null&&(!Number.isSafeInteger(term)||term<1))throw new Error("Term must be whole months.");const row=database.prepare<any,{id:string}>("INSERT INTO loans (business_id,lender,kind,classification,principal,outstanding_balance,interest_rate_basis_points,start_date,due_date,notes,repayment_frequency,installment_amount,term_months) VALUES (@businessId,@lender,@kind,@classification,@principal,@outstanding,@rate,@startDate,@dueDate,@notes,@frequency,@installment,@term) RETURNING id").get({businessId,lender:input.lender.trim(),kind:input.kind,classification:input.classification,principal,outstanding,rate,startDate:input.startDate,dueDate:input.dueDate??null,notes:input.notes?.trim()||null,frequency,installment,term})!;return loans().find(({id})=>id===row.id)!; },
     updateLoan(id:string,input:LoanInput):LoanRecord { const before=loans().find((loan)=>loan.id===id);if(!before)throw new Error("Loan not found.");if(!input.lender.trim()||!loanKinds.has(input.kind)||!calendarDate(input.startDate)||input.dueDate&&!calendarDate(input.dueDate))throw new Error("Check the loan details.");assertOpen(before.startDate.slice(0,7));assertOpen(input.startDate.slice(0,7));const principal=wholeUgx(input.principal),outstanding=wholeUgx(input.outstandingBalance),rate=input.interestRateBasisPoints??0,frequency=input.repaymentFrequency??"monthly",installment=input.installmentAmount==null?null:wholeUgx(input.installmentAmount),term=input.termMonths??null;if(!Number.isSafeInteger(rate)||rate<0||!repaymentFrequencies.has(frequency)||term!=null&&(!Number.isSafeInteger(term)||term<1))throw new Error("Use a valid repayment plan.");database.prepare("UPDATE loans SET lender=@lender,kind=@kind,classification=@classification,principal=@principal,outstanding_balance=@outstanding,interest_rate_basis_points=@rate,start_date=@startDate,due_date=@dueDate,notes=@notes,repayment_frequency=@frequency,installment_amount=@installment,term_months=@term WHERE id=@id AND business_id=@businessId AND archived_at IS NULL").run({id,businessId,lender:input.lender.trim(),kind:input.kind,classification:input.classification,principal,outstanding,rate,startDate:input.startDate,dueDate:input.dueDate??null,notes:input.notes?.trim()||null,frequency,installment,term});const after=loans().find((loan)=>loan.id===id)!;audit.append({entityType:"loan",entityId:id,action:"update",before,after});return after; },

diff --git a/tests/main/ipc.test.ts b/tests/main/ipc.test.ts
@@ -111,6 +111,7 @@ describe("IPC contract", () => {
       IPC_CHANNELS.INVENTORY_SAVE,
       IPC_CHANNELS.ASSET_CREATE,
       IPC_CHANNELS.ASSET_UPDATE,
+      IPC_CHANNELS.ASSET_ARCHIVE,
       IPC_CHANNELS.LOAN_CREATE,
       IPC_CHANNELS.LOAN_UPDATE,
       IPC_CHANNELS.PERIOD_CLOSE,

diff --git a/docs/releases/0.3.2.md b/docs/releases/0.3.2.md
@@ -1,0 +1,8 @@
+# Short-Stay Accounts 0.3.2
+
+- Perfects shared action, status-badge, and unit-setting alignment.
+- Shows full Today figures unless an amount genuinely cannot fit.
+- Adds safe fixed-asset removal and richer owner-funding details.
+- Uses the preferred simplified property-accounting icon on macOS and Windows.
+
+Existing encrypted business data and passwords remain unchanged during update.

diff --git a/README.md b/README.md
@@ -37,9 +37,9 @@ Inside the application, select **Help** in the command bar to search the guide o
 
 ## Windows installer
 
-Download the current [Short-Stay Accounts v0.3.1 Windows installer](https://github.com/Turigye/shortstay-accounts/releases/download/v0.3.1/Short-Stay.Accounts-0.3.1.Setup.exe).
+Download the current [Short-Stay Accounts v0.3.2 Windows installer](https://github.com/Turigye/shortstay-accounts/releases/download/v0.3.2/Short-Stay.Accounts-0.3.2.Setup.exe).
 
-Installing v0.3.1 over an earlier version keeps the existing encrypted local business file, password, profiles, bookings, reports, and settings. Create an encrypted backup before any software update as normal operating practice.
+Installing v0.3.2 over an earlier version keeps the existing encrypted local business file, password, profiles, bookings, reports, and settings. Create an encrypted backup before any software update as normal operating practice.
 
 To produce a fresh development build, open the repository's **Actions** tab, run **Build Windows**, and download the `shortstay-accounts-windows-x64` artifact. Extract it and run the generated `Setup.exe` file.
 